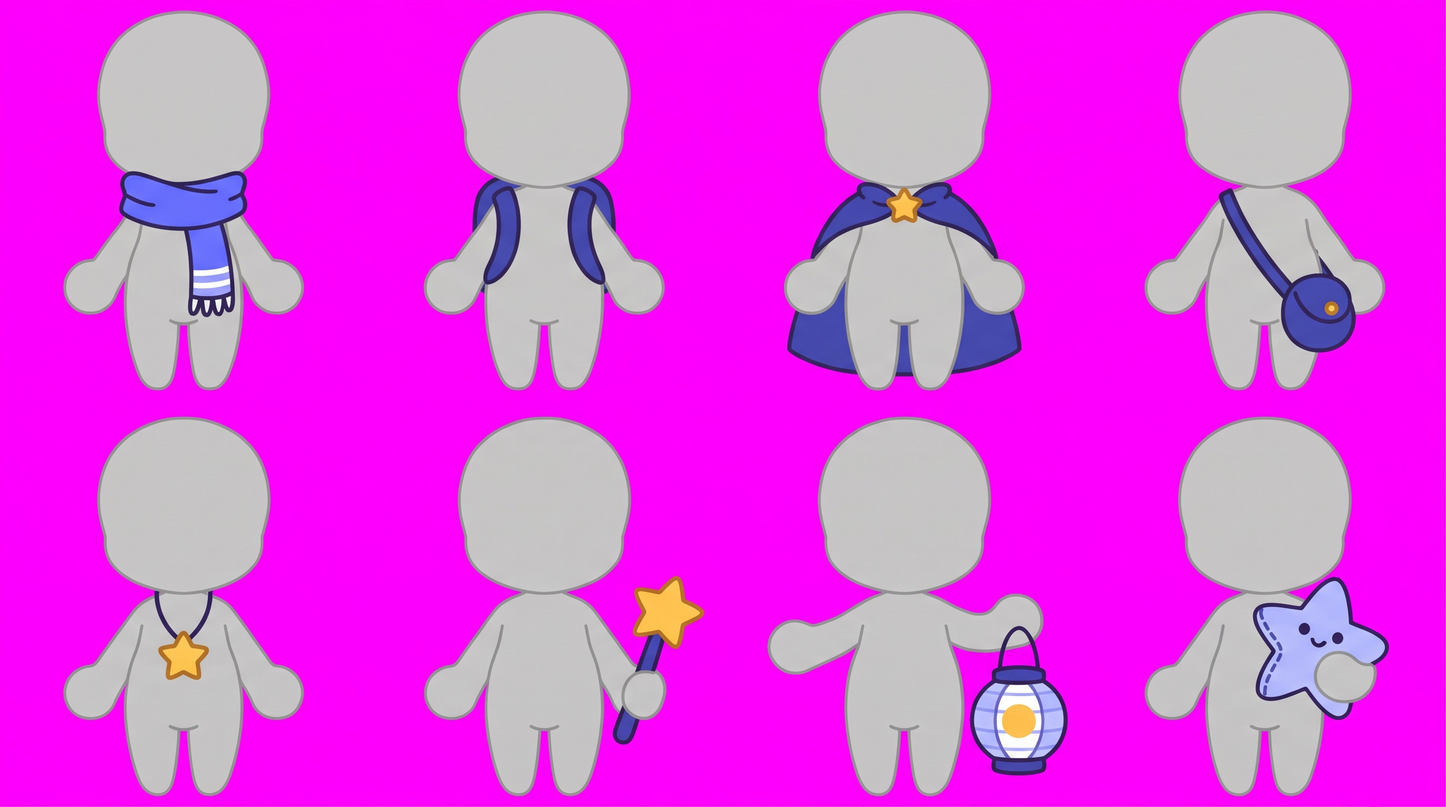
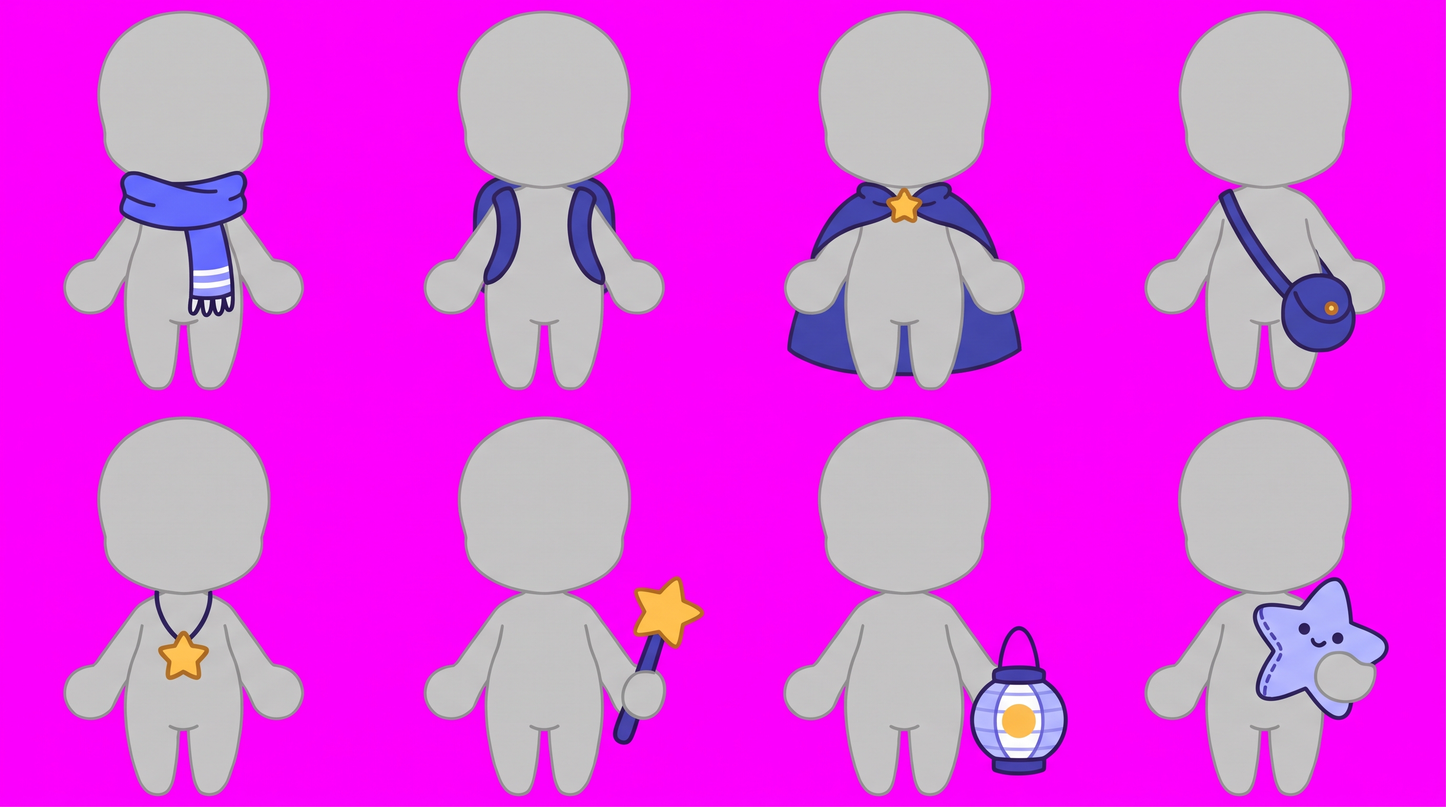
Replace the species and accessories sheets with fixed cells

Changed region(s): [[0.5312, 0.75, 0.5938, 0.9062], [0.6562, 0.7188, 0.7188, 0.875]]

diff --git a/docs/design/avatar-prompts.md b/docs/design/avatar-prompts.md
@@ -245,7 +245,7 @@ DO NOT include: text, letters, numbers, labels, logos, watermarks, grid lines, g
 ```
 docs/design/avatar/sheets/        исходники из Gemini (JPG 2752×1536): 00-template.jpg, 01-species.jpg, 02-outfits.jpg,
                                   03-headwear.jpg, 04-accessories.jpg, 05-companions.jpg,
-                                  06-expressions.jpg, 07-backdrops.jpg (+ версия: 04-accessories.v2.jpg)
+                                  06-expressions.jpg, 07-backdrops.jpg
 web/scripts/avatar/               скрипты: slice.py, trace.py, colorize.py, build.mjs, ids.json
 web/public/avatar/<level>/<id>.svg   готовые слои, для проверки глазами и для <img>
 web/public/avatar/backdrop/<id>.webp фоны (не трассируем, WebP ≤ 150 KB)
